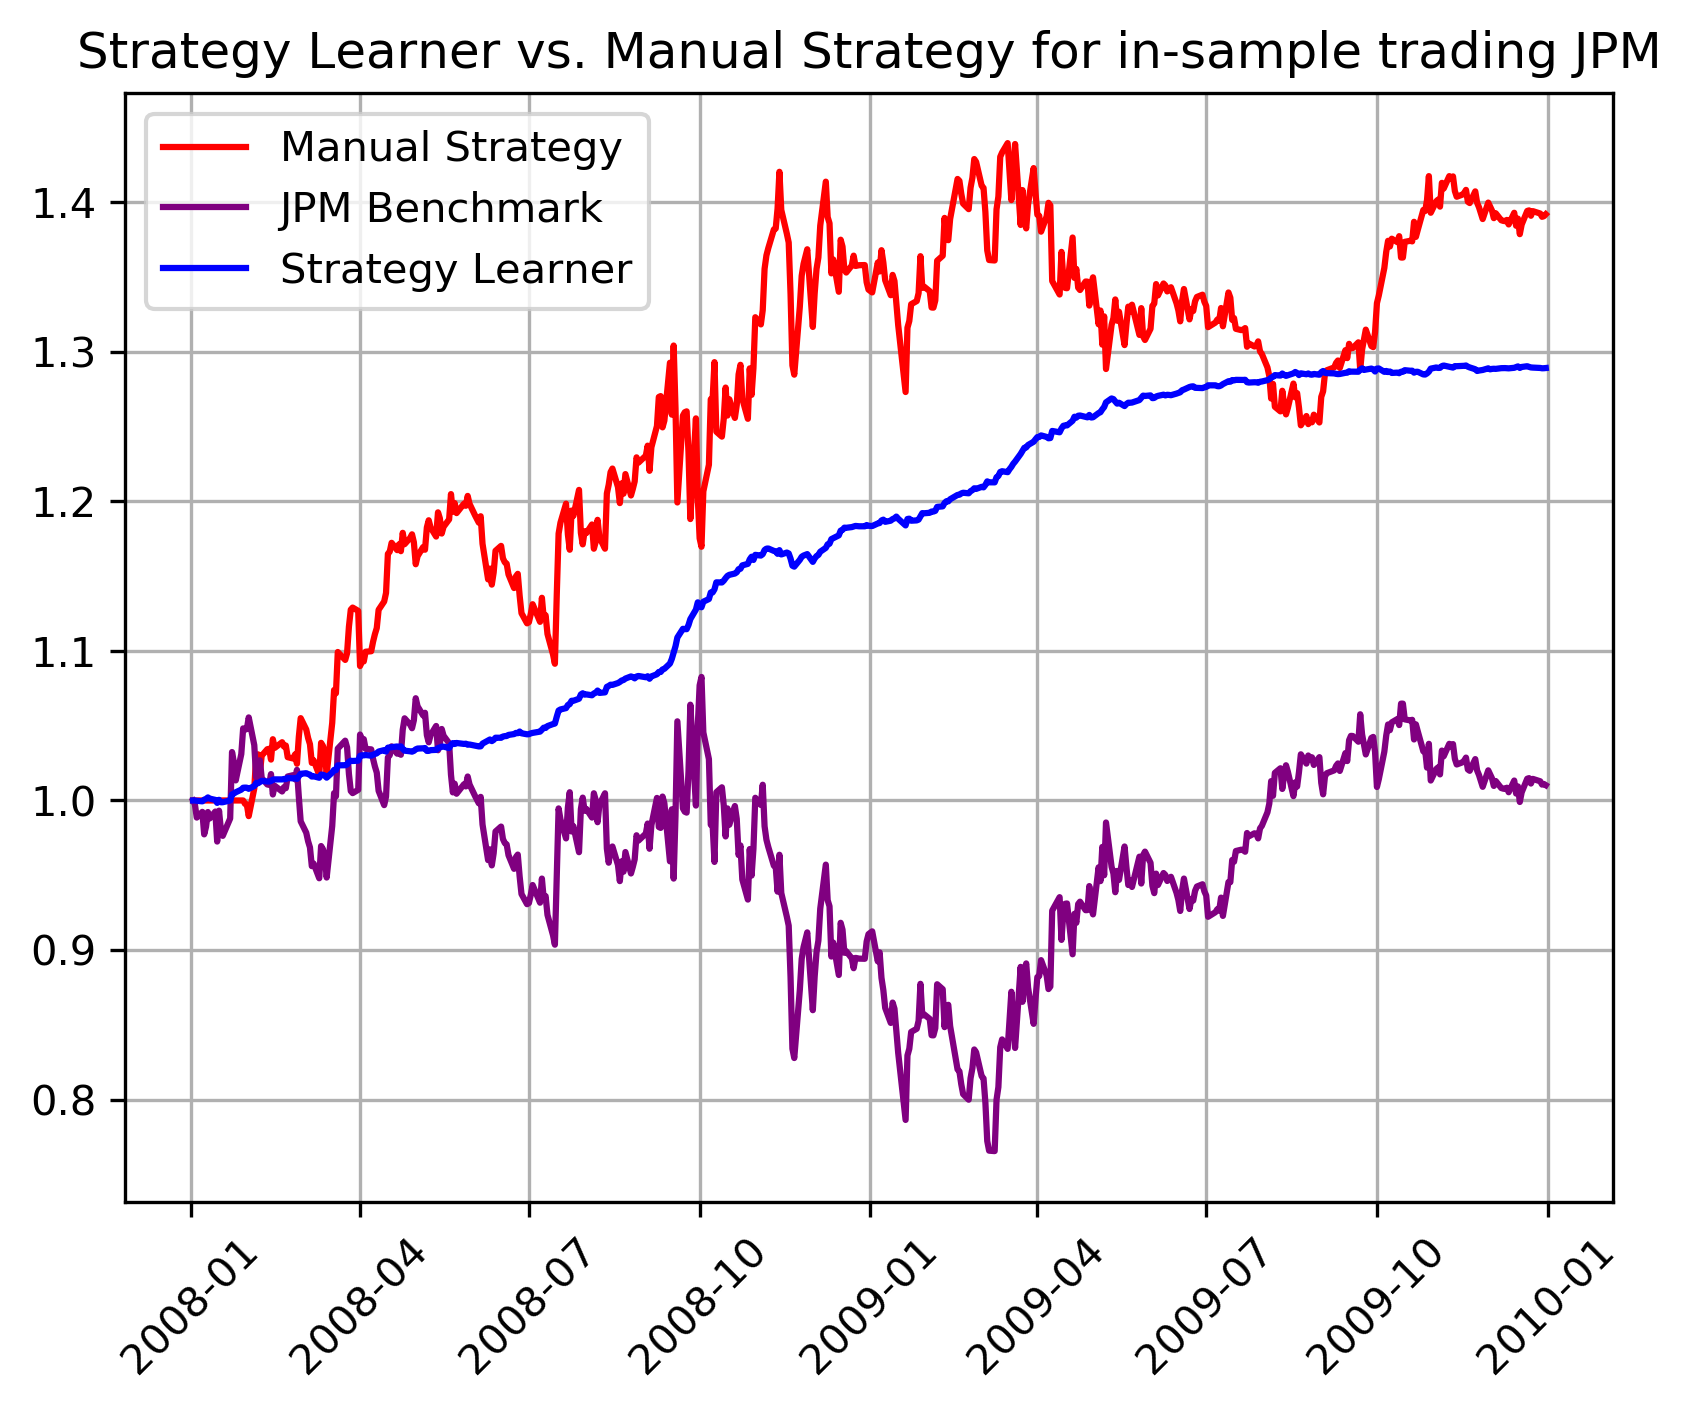
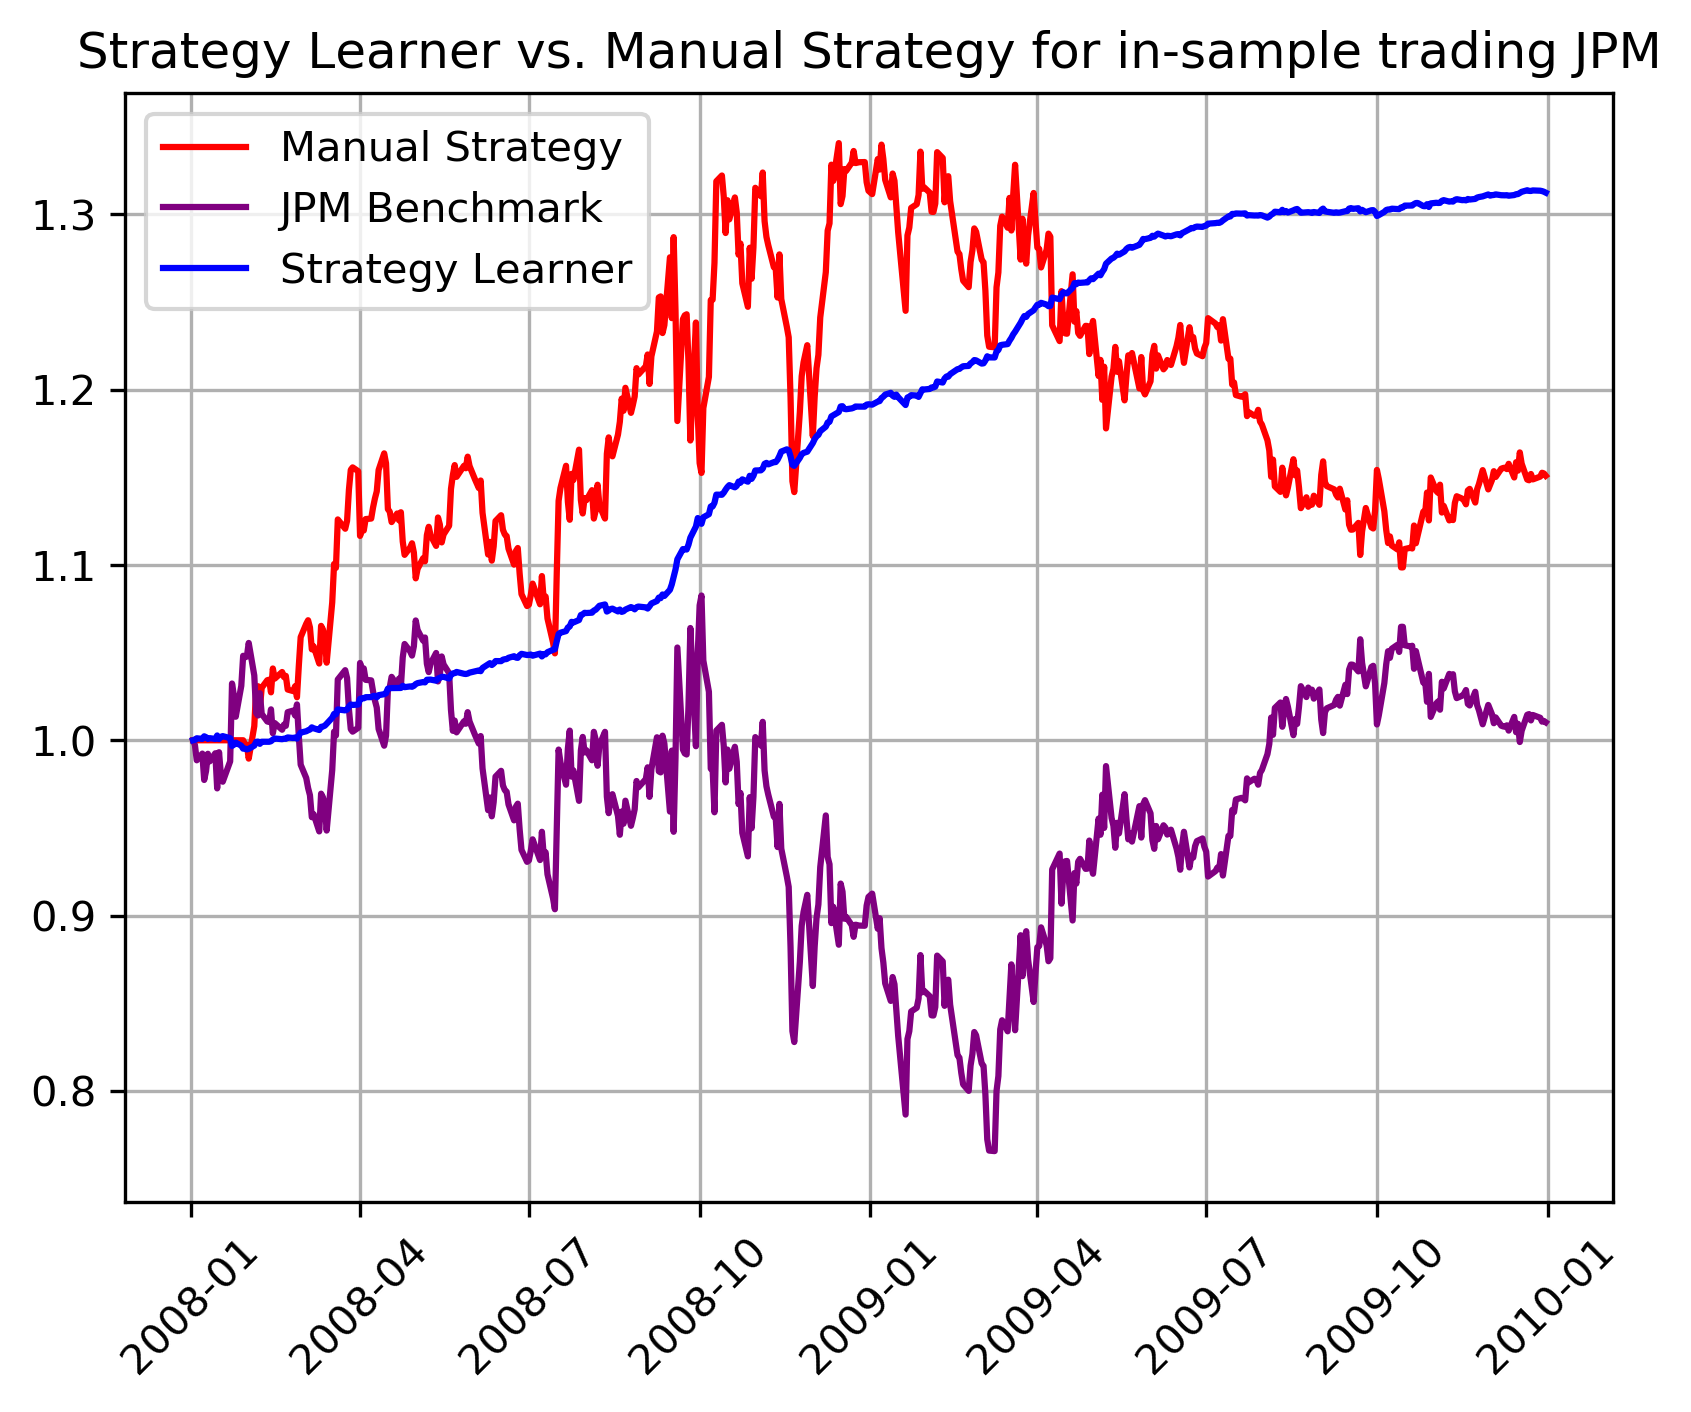
Cleaned indicators.py with momentum cleaned StrategyLearner.py and ManualStrategy.py
New graphs obtained

diff --git a/strategy_evaluation/indicators.py b/strategy_evaluation/indicators.py
@@ -1,122 +1,77 @@
 """
-Code implementing your indicators as functions that operate on DataFrames. There is no defined API for indicators.py, but
-when it runs, the main method should generate the charts that will illustrate your indicators in the report.
+Student Name: Vaishnavi Sanjeev
+GT User ID: vsanjeev6
+GT ID: 903797718
 """
-
-import numpy as np
 import datetime as dt
 import pandas as pd
 from util import get_data
-import matplotlib.pyplot as plt
 
 def author():
-  return 'pcometti3' # replace tb34 with your Georgia Tech username.
+  return 'vsanjeev6'
 
+"""
+Indicator 1: Bollinger Band Percent
+"""
+def get_BBP(window, prices):
+  prices = prices.ffill().bfill()
+  rm = prices.rolling(window=window, center=False).mean()
+  sd = prices.rolling(window=window, center=False).std()
+  upband = rm + (2 * sd)
+  dnband = rm - (2 * sd)
+  BBP = (prices - dnband) / (upband - dnband)
+  return BBP
 
-def get_bbp(rate, prices):
-  SMA = prices.rolling(rate).mean()
-  std = prices.rolling(rate).std()
-  bollinger_up = SMA + std * 2  # Calculate top band
-  bollinger_down = SMA - std * 2  # Calculate bottom band
-  bbp = (prices - bollinger_down) / (bollinger_up - bollinger_down)
-
-  return bbp
-
-
-def get_CCI(symbol, sd, ed, rate, prices):
+"""
+Indicator 2:  Commodity Channel Index
+"""
+def get_CCI(symbol, sd, ed, window, prices):
   dates = pd.date_range(sd, ed)
+
   high = get_data([symbol], dates, colname="High")[symbol]
   low = get_data([symbol], dates, colname="Low")[symbol]
-  close = prices
-  TP = (high + low + close) / 3
-  SMA = TP.rolling(rate).mean()
-  MD = TP.rolling(rate).apply(lambda x: pd.Series(x).mad(), raw=False)
-  CCI = (TP - SMA) / (0.015 * MD)
+  close = get_data([symbol], dates, colname="Close")[symbol]
+  adj_close = prices
 
+  adjustment_factor = adj_close / close
+  high = high * adjustment_factor
+  low = low * adjustment_factor
+
+  typical_price = (high + low + adj_close) / 3
+  mean_deviation = abs(typical_price - typical_price.rolling(window).mean()).mean()
+  CCI = (typical_price - typical_price.rolling(window).mean()) / (0.015 * mean_deviation)
   return CCI
 
-
-def get_PPO(prices):
-  EMA12 = prices.ewm(span=12, adjust=False).mean()
-  EMA26 = prices.ewm(span=26, adjust=False).mean()
-  PPO = ((EMA12 - EMA26) / EMA26) * 100
-  EMA9 = PPO.ewm(span=9, adjust=False).mean()
-  histo = PPO - EMA9
-  idx = np.argwhere(np.diff(np.sign(PPO - EMA9))).flatten()
-  green_idx = []
-  red_idx = []
-  for i in idx:
-    if PPO[i]<EMA9[i]:
-      green_idx = np.append(green_idx, i)
-    else:
-      red_idx = np.append(red_idx, i)
-
-  red_idx = red_idx.astype(int)
-  green_idx = green_idx.astype(int)
-
-  return red_idx, green_idx
-
-
-def get_ROC(prices, rate):
-  SMA = prices.rolling(rate).mean()
-  close = prices
-  ROC = (prices / prices.shift(rate)) - 1
-
-  return ROC
-
-
-def get_RSI(prices, rate):
-  close = prices
-  change = close - close.shift(1)
-  avg_gain = np.empty((close.shape[0]))
-  avg_gain[:] = np.nan
-  avg_loss = np.copy(avg_gain)
-  prev_gain = (change[1:rate][change>0].sum())/(rate-1)
-  prev_loss = ((change[1:rate][change<0].sum())/(rate-1))*(-1)
-
-
-  for i in range(rate,close.shape[0]):
-    if change[i] > 0:
-      avg_gain[i] = (prev_gain*(rate-1)+change[i])/rate
-      avg_loss[i] = (prev_loss*(rate-1))/rate
-    else:
-      avg_gain[i] = (prev_gain * (rate-1)) / rate
-      avg_loss[i] = (prev_loss * (rate-1) + (change[i]*(-1))) / rate
-    prev_gain = avg_gain[i]
-    prev_loss = avg_loss[i]
-
-  RS = avg_gain/avg_loss
-  RSI = 100 - (100/(1+RS))
-  RSI = pd.DataFrame(RSI, index=[prices.index.values])
-  RSI = RSI[0]
-
-  return RSI
+"""
+Indicator 3:  Momentum
+"""
+def get_MOM(prices, window):
+  MOM = (prices / prices.shift(window)) - 1
+  return MOM
 
 def get_indicators(symbol="JPM", sd = dt.datetime(2008, 1, 1), ed = dt.datetime(2009, 12, 31)):
-  sd1 = sd-dt.timedelta(days=40)
-  dates = pd.date_range(sd1, ed)
+  sd = sd
+  ed = ed
+  symbol = symbol
+
+  dates = pd.date_range(sd, ed)
   prices_all = get_data([symbol], dates)
   prices = prices_all[symbol]
+  prices = prices.ffill().bfill()
   prices /= prices[0]
+  window = 20
 
-  rate = len(prices.loc[sd1:sd+dt.timedelta(days=1)])
-
-  # %B
-  bbp = get_bbp(rate, prices).loc[sd:]
+  # BBP
+  BBP = get_BBP(window, prices).loc[sd:]
 
   # CCI
-  CCI = get_CCI(symbol, sd1, ed, rate, prices).loc[sd:]
+  CCI = get_CCI(symbol, sd, ed, window, prices).loc[sd:]
 
-  #PPO
-  PPO = get_PPO(prices)
+  # Momentum
+  MOM = get_MOM(prices, window).loc[sd:]
 
-  #ROC
-  ROC = get_ROC(prices, rate).loc[sd:]
-
-  #RSI
-  RSI = get_RSI(prices, rate=14).loc[sd:]
-
-  return bbp, CCI, PPO, ROC, RSI
+  return BBP, CCI, MOM
 
 if __name__ == "__main__":
-    get_indicators()
+  # get_indicators()
+  pass

diff --git a/strategy_evaluation/StrategyLearner.py b/strategy_evaluation/StrategyLearner.py
@@ -91,15 +91,15 @@ class StrategyLearner(object):
         prices = prices_all[syms]  # only portfolio symbols
         prices_SPY = prices_all["SPY"]  # only SPY, for comparison later
 
-        bbp, CCI, _, ROC, _ = ind.get_indicators(symbol, sd, ed)
+        bbp, CCI, MOM = ind.get_indicators(symbol, sd, ed)
         bbp = discretize(bbp).rename({symbol:'BBP'}, axis=1)
         CCI = discretize(CCI).rename({symbol:'CCI'}, axis=1)
-        ROC = discretize(ROC).rename({symbol:'ROC'}, axis=1)
+        MOM = discretize(MOM).rename({symbol:'MOM'}, axis=1)
 
-        indicators = pd.concat([bbp, CCI, ROC], axis=1)
+        indicators = pd.concat([bbp, CCI, MOM], axis=1)
         indicators = indicators.loc[sd:]
         indicators['state'] = indicators['BBP'].astype(str) + indicators['CCI'].astype(str) + \
-                              indicators['ROC'].astype(str)
+                              indicators['MOM'].astype(str)
         initial_state = indicators.iloc[0]['state']
 
         self.ql.querysetstate(int(float(initial_state)))
@@ -177,16 +177,16 @@ class StrategyLearner(object):
         prices = prices_all[syms]  # only portfolio symbols
         prices_SPY = prices_all["SPY"]  # only SPY, for comparison later
 
-        bbp, CCI, _, ROC, _ = ind.get_indicators(symbol, sd, ed)
+        bbp, CCI, MOM = ind.get_indicators(symbol, sd, ed)
 
         bbp = discretize(bbp).rename({symbol: 'BBP'}, axis=1)
         CCI = discretize(CCI).rename({symbol: 'CCI'}, axis=1)
-        ROC = discretize(ROC).rename({symbol: 'ROC'}, axis=1)
+        MOM = discretize(MOM).rename({symbol: 'MOM'}, axis=1)
 
-        indicators = pd.concat([bbp, CCI, ROC], axis=1)
+        indicators = pd.concat([bbp, CCI, MOM], axis=1)
         indicators = indicators.loc[sd:]
         indicators['state'] = indicators['BBP'].astype(str) + indicators['CCI'].astype(str) + \
-                              indicators['ROC'].astype(str)
+                              indicators['MOM'].astype(str)
         initial_state = indicators.iloc[0]['state']
 
 

diff --git a/strategy_evaluation/ManualStrategy.py b/strategy_evaluation/ManualStrategy.py
@@ -29,10 +29,10 @@ class ManualStrategy:
     lookback = 20
 
     df_trades = pd.DataFrame(0, index=prices.index, columns=[symbol])
-
-    BBP = ind.get_bbp(lookback, prices)
+    print(prices)
+    BBP = ind.get_BBP(lookback, prices)
     CCI = ind.get_CCI(symbol, sd, ed, lookback, prices)
-    ROC = ind.get_ROC(prices, lookback)
+    ROC = ind.get_MOM(prices, lookback)
 
     holding = 0
     delta = 1000
